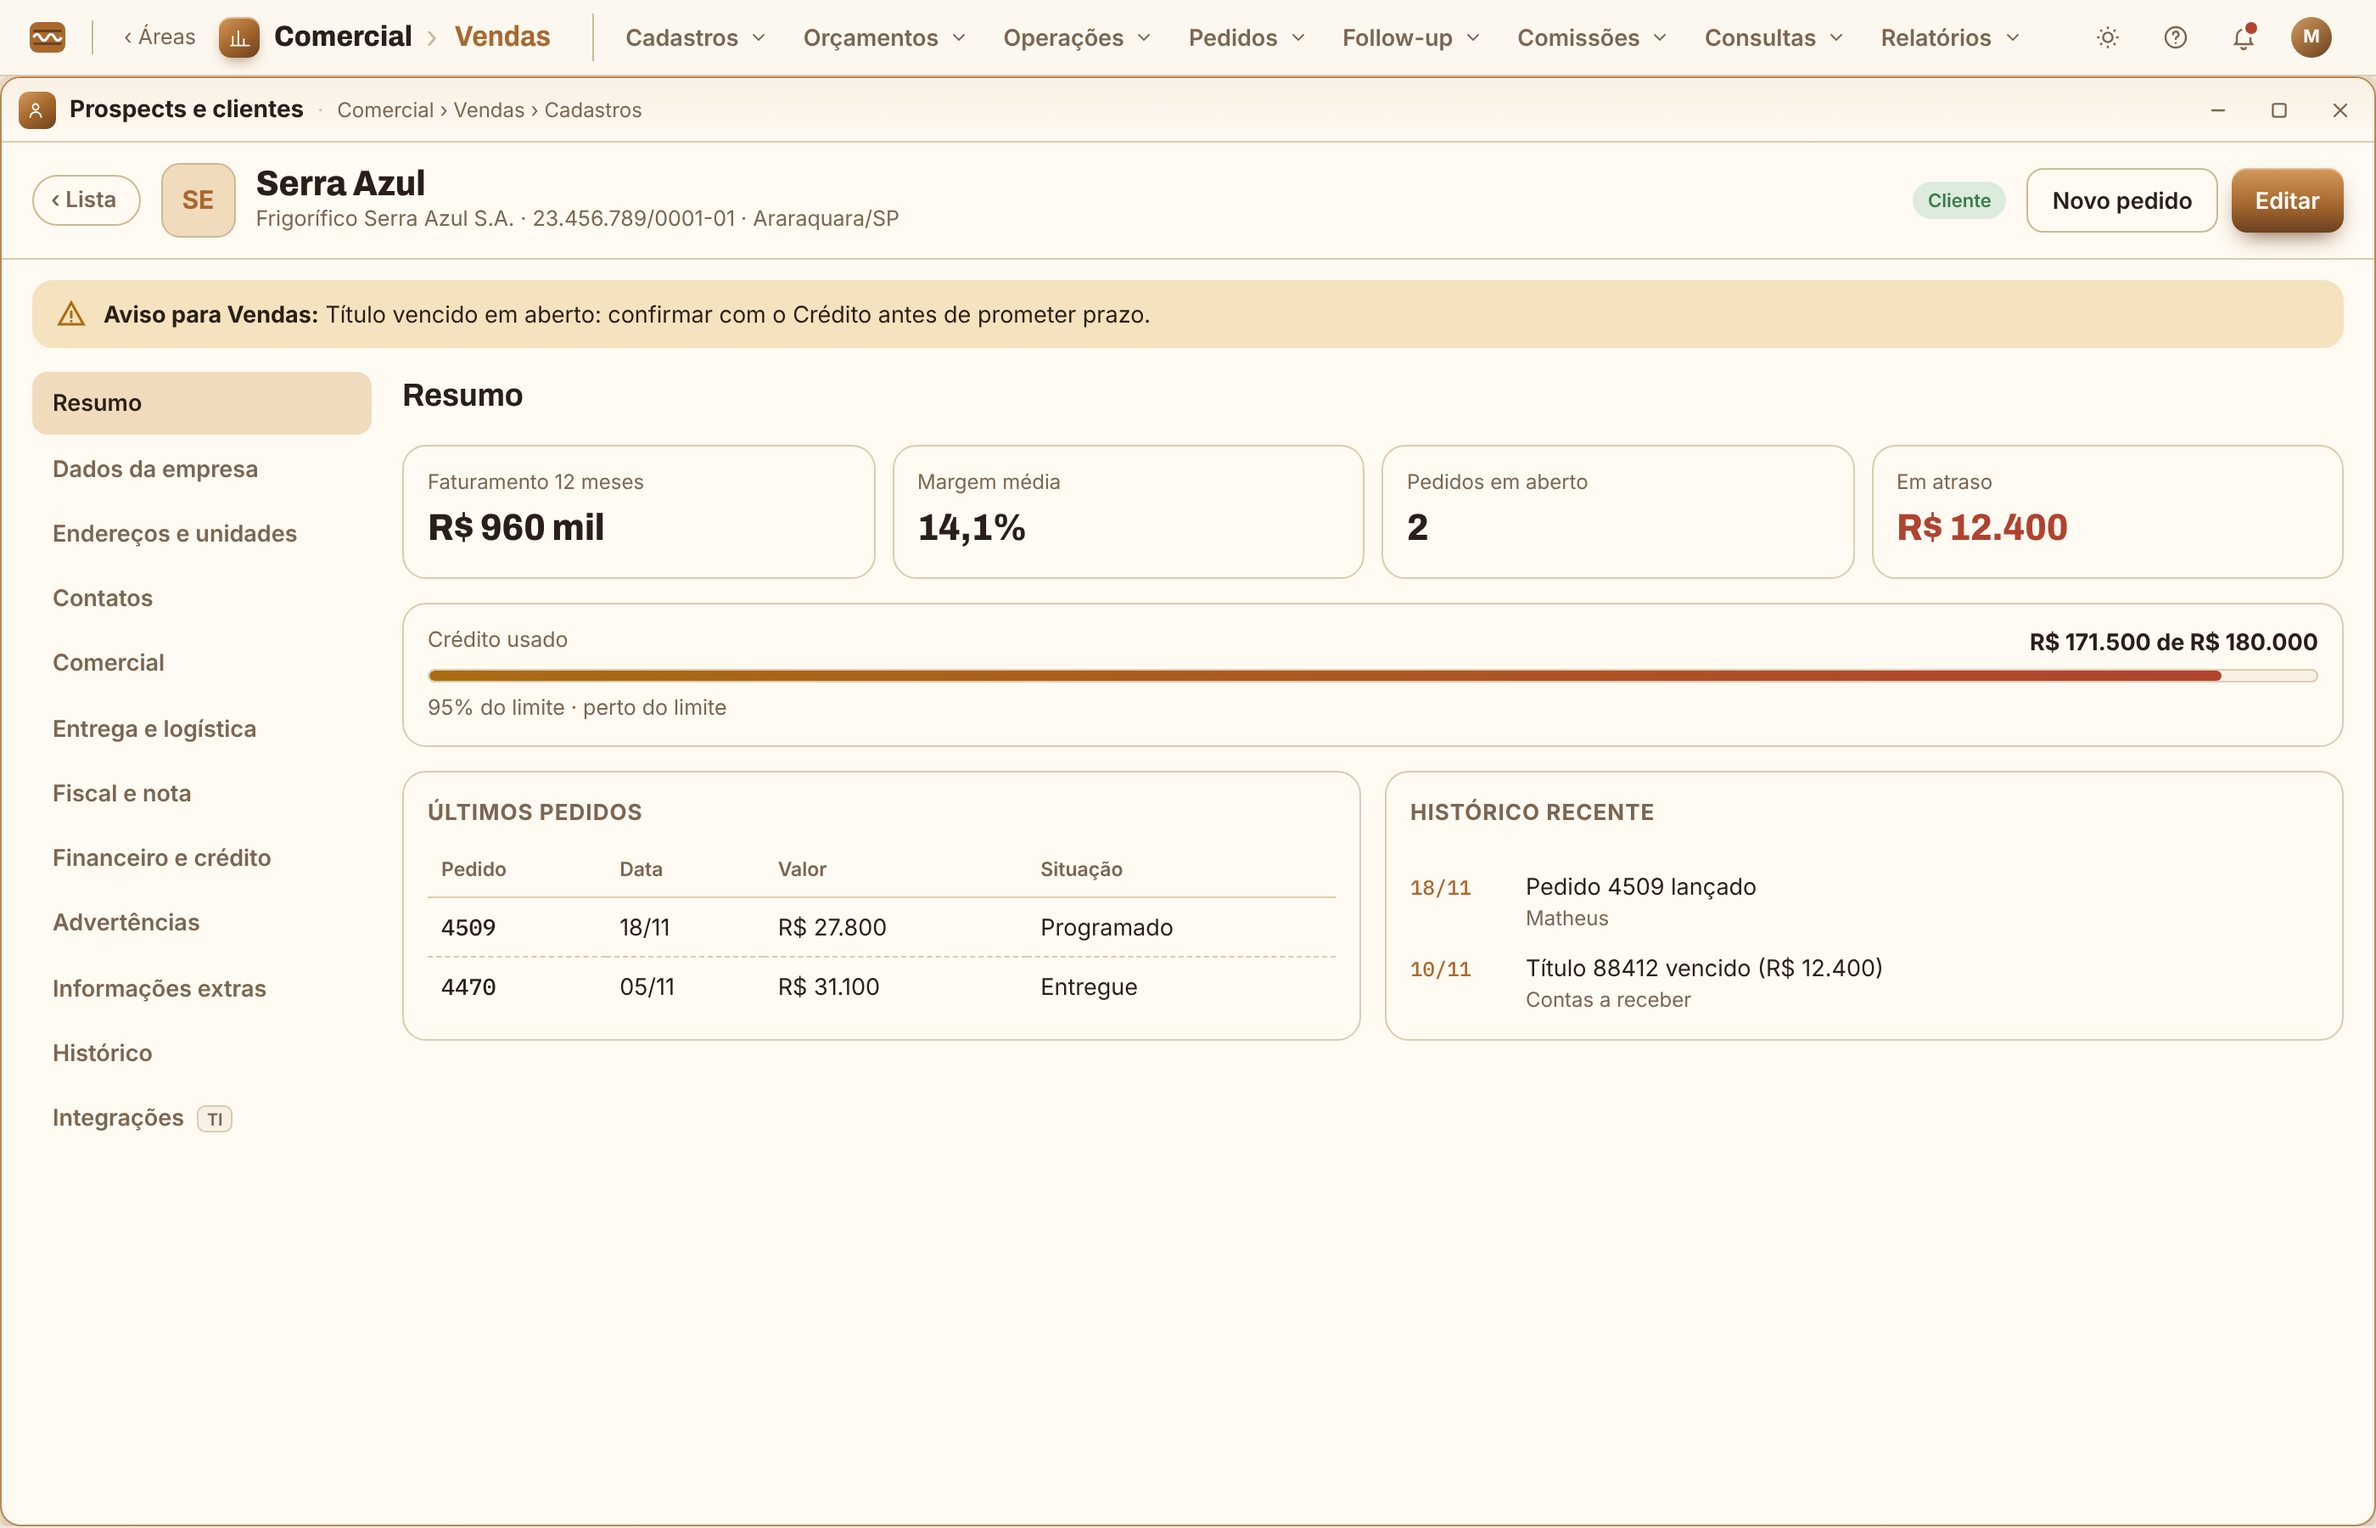
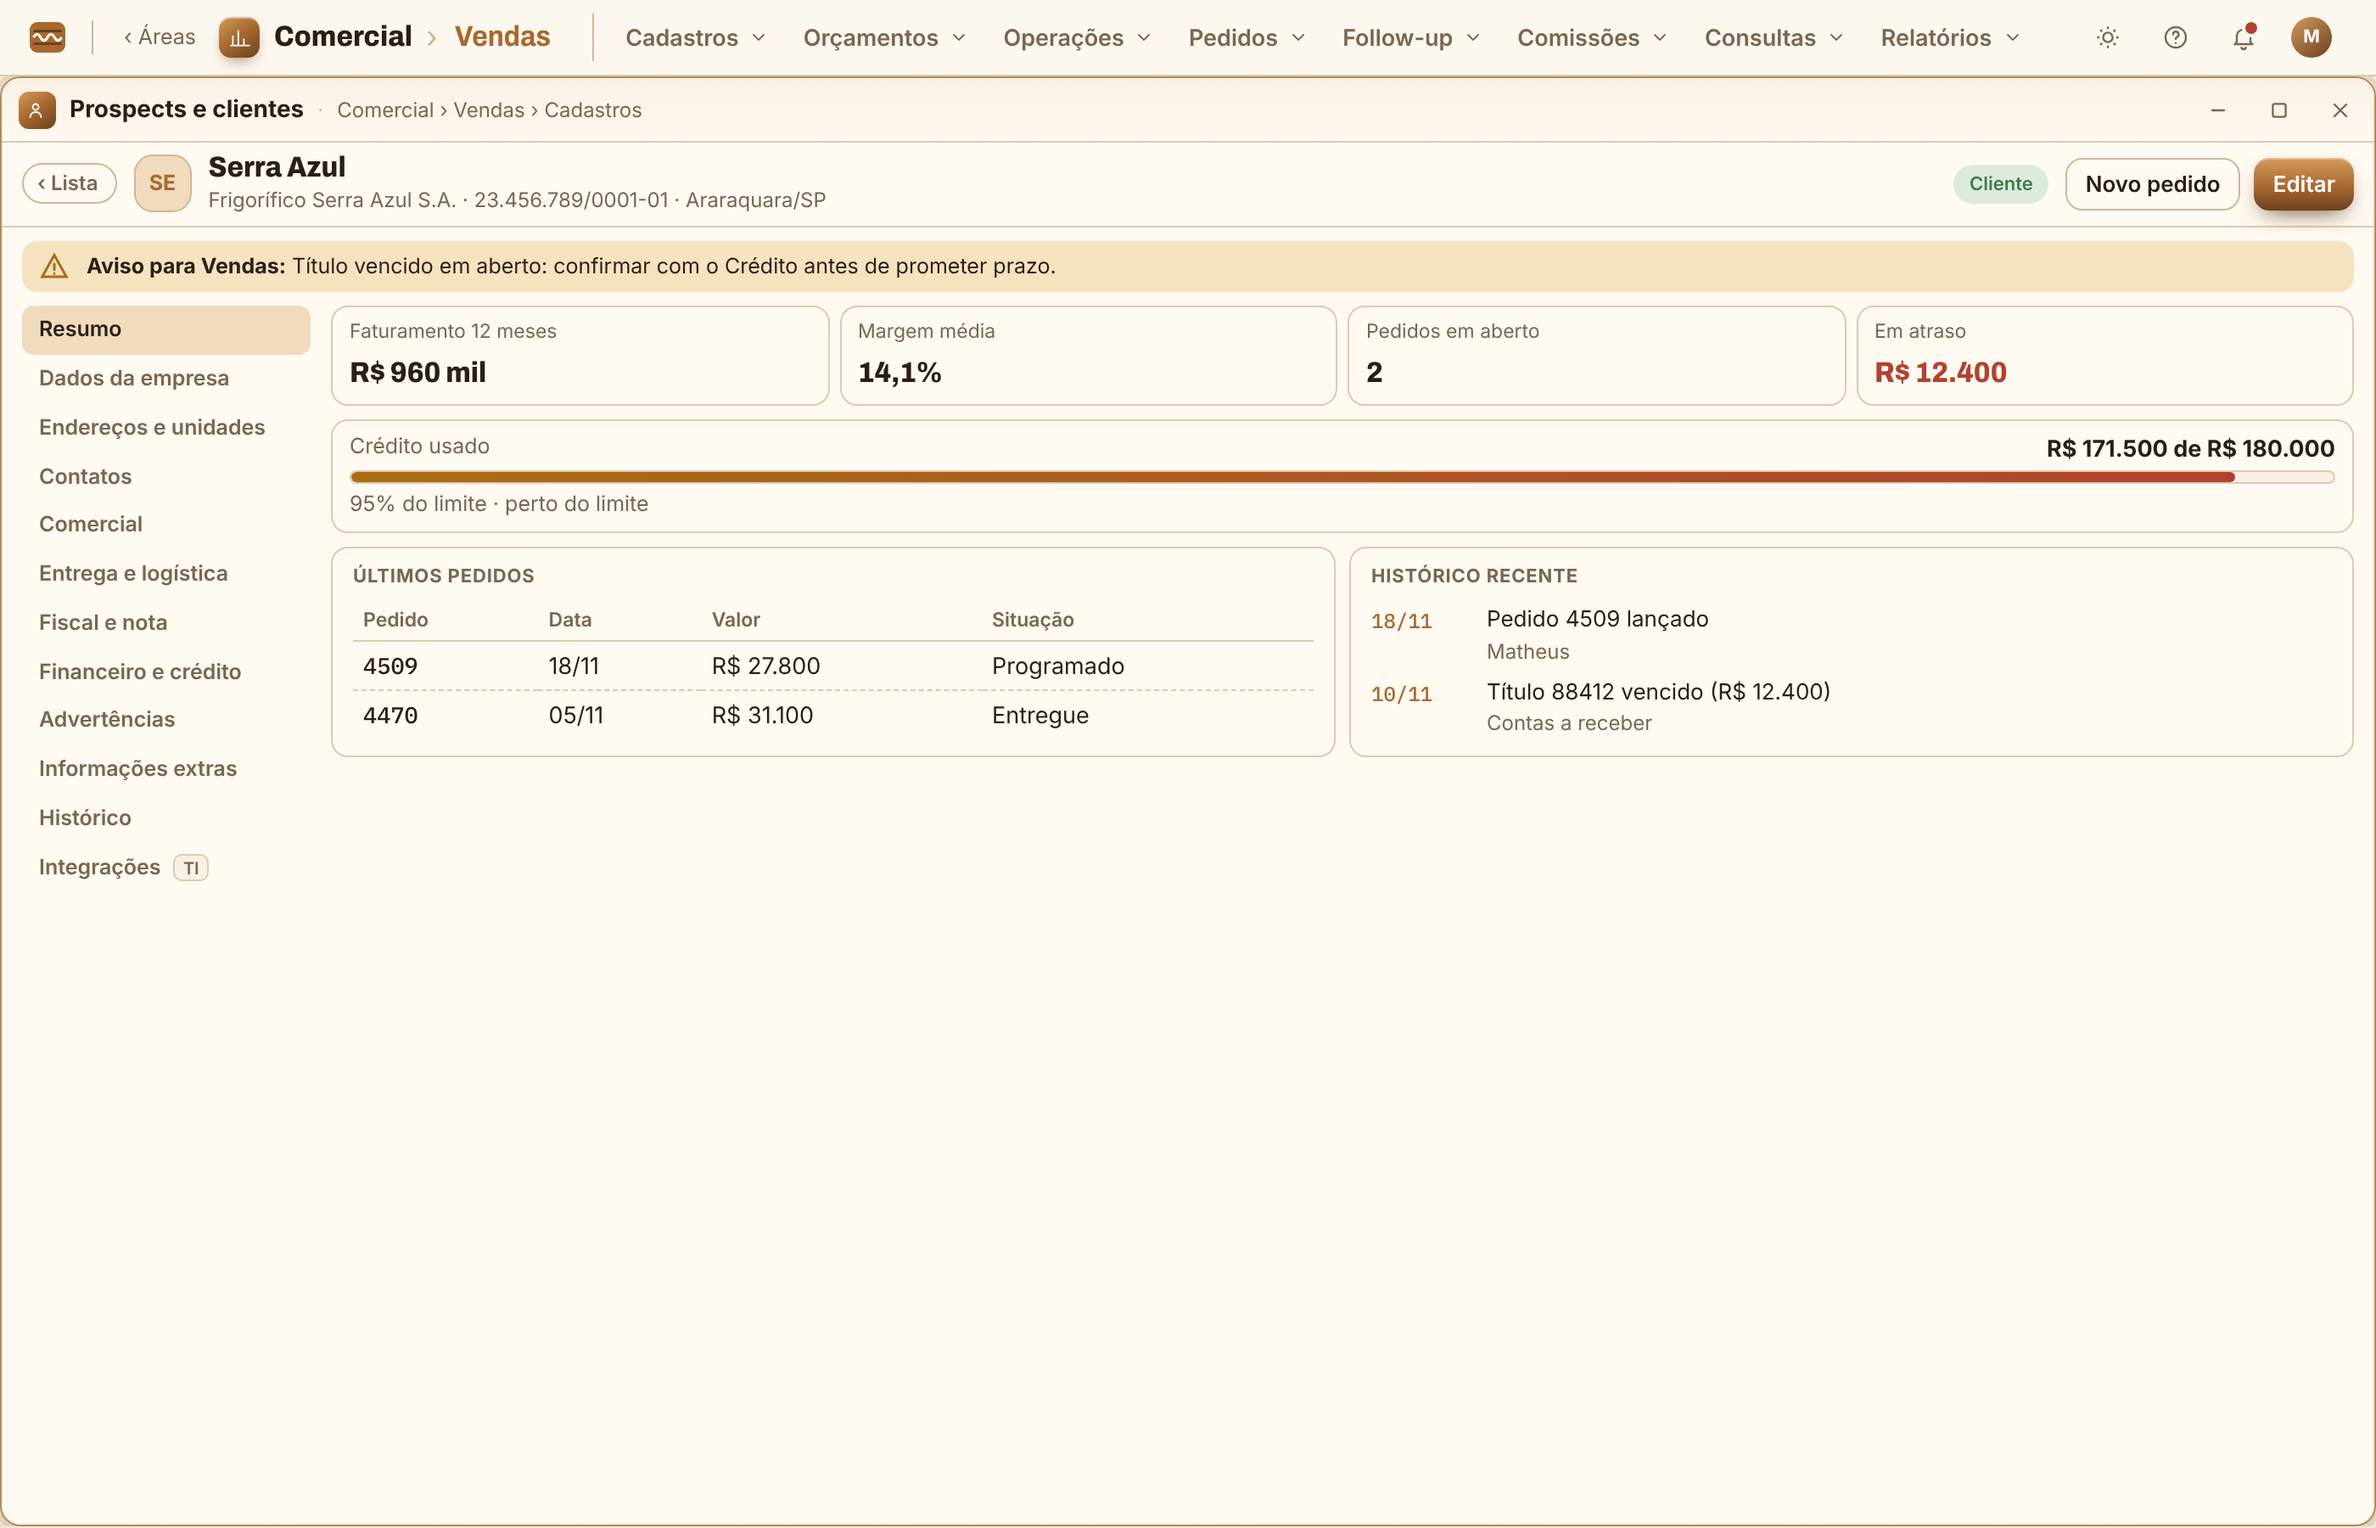
Ficha de clientes compacta; regra de telas compactas para todo o sistema
Claude-Session: https://claude.ai/code/session_015kL8p4eCaL1huCADCSMStj

diff --git a/prototipo/tela-inicial-e-comercial.html b/prototipo/tela-inicial-e-comercial.html
@@ -451,6 +451,61 @@ textarea.falta{border-color:var(--bad)!important}
   .cl-acoes{margin-left:0}
 }
 
+/* ── Regra: telas compactas (sem espaço ocioso). Vale para todas as janelas. ── */
+.cl-topo{padding:8px 12px;gap:6px}
+.cl-topo .srch input{padding:6px 0}
+.cl-topo .flt{padding:4px 10px;font-size:12.5px}
+.cl-topo .go{padding:6px 12px;font-size:13px}
+.cl-linhas{gap:4px;padding:8px 12px 12px}
+.cl-linha{padding:6px 10px;gap:10px;border-radius:9px}
+.cl-linha .av,.cl-contato .av{width:30px;height:30px;font-size:11.5px;border-radius:8px}
+.cl-linha b{font-size:13.5px}
+.cl-cab{padding:6px 12px;gap:8px 10px}
+.cl-cab .voltar{padding:2px 10px 2px 8px;font-size:12px}
+.av.grande{width:34px;height:34px;font-size:12.5px}
+.cl-nome b{font-size:17px}
+.cl-nome small{font-size:12px}
+.cl-acoes .btn2,.cl-acoes .go{padding:5px 11px;font-size:13px}
+.cl-aviso{margin:8px 12px 0;padding:6px 10px;font-size:12.5px;border-radius:9px}
+.cl-corpo{grid-template-columns:170px minmax(0,1fr);gap:12px;padding:8px 12px 14px}
+.cl-nav{top:56px;gap:0}
+.cl-nav button{padding:5px 10px;font-size:12.5px;border-radius:7px}
+.cl-sec{gap:8px}
+.cl-sec h3{display:none}
+.cl-bloco{padding:8px 12px 10px;gap:6px;border-radius:10px}
+.cl-bloco h4{font-size:11px}
+.cl-grade{grid-template-columns:repeat(auto-fill,minmax(170px,1fr));gap:4px 14px}
+.cf{gap:0;font-size:11.5px;font-weight:600}
+.cf input,.cf select,.cf textarea,.cl-tab input{font-size:13.5px;padding:4px 8px;border-radius:7px}
+.cf input:disabled,.cf select:disabled,.cf textarea:disabled,.cl-tab input:disabled{padding:2px 0}
+.cf textarea{min-height:44px}
+.cf textarea:disabled{min-height:0;height:auto}
+.cf-bt{display:none}
+.editando .cf-bt{display:inline-flex;bottom:2px;padding:2px 7px}
+.cf-sn{font-size:13px;gap:6px}
+.cl-kpis{gap:6px}
+.cl-kpi{padding:6px 10px;border-radius:10px}
+.cl-kpi span{font-size:11.5px}
+.cl-kpi b{font-size:17px}
+.cl-credito{padding:6px 10px;gap:3px;border-radius:10px}
+.cl-duas{gap:8px}
+.cl-tab th{padding:3px 6px}
+.cl-tab td{padding:4px 6px}
+.cl-tempo{gap:5px}
+.cl-tempo li{font-size:13px}
+.cl-dica{padding:6px 10px;font-size:12.5px;border-radius:9px}
+.cl-lista{gap:4px}
+.cl-item{padding:5px 10px;border-radius:8px}
+.cl-contatos{gap:6px}
+.cl-contato{padding:8px 10px;gap:8px;border-radius:10px}
+.cl-txt{font-size:13px}
+.cf.dupla{grid-column:span 2}
+@media (max-width:760px){ .cf.dupla{grid-column:1/-1} }
+.cl-item{display:flex;flex-wrap:wrap;align-items:baseline;gap:2px 10px}
+.cl-item small{margin-left:auto}
+.cl-doc{display:flex}
+.cl-doc .pill{margin-left:auto}
+
 /* retomada */
 .recent{display:grid;grid-template-columns:repeat(3,minmax(0,1fr));gap:12px}
 @media (max-width:820px){ .recent{grid-template-columns:1fr} }
@@ -2961,7 +3016,7 @@ const SECOES = [
 ];
 
 /* pedaços de formulário (ficam travados até clicar em Editar) */
-const f = (rot, val, o = {}) => `<label class="cf${o.larga ? ' larga' : ''}"><span>${rot}${o.ajuda ? ` <i title="${esc(o.ajuda)}">?</i>` : ''}</span>${
+const f = (rot, val, o = {}) => `<label class="cf${o.larga ? ' larga' : ''}${o.dupla ? ' dupla' : ''}"><span>${rot}${o.ajuda ? ` <i title="${esc(o.ajuda)}">?</i>` : ''}</span>${
   o.opcoes ? `<select disabled>${o.opcoes.map(x => `<option${x === val ? ' selected' : ''}>${esc(x)}</option>`).join('')}</select>`
   : o.texto ? `<textarea disabled>${esc(val || '')}</textarea>`
   : `<input disabled value="${esc(val || '')}"${o.ph ? ` placeholder="${esc(o.ph)}"` : ''}>`}${o.botao ? `<button class="mini cf-bt" type="button" data-acao-f="${o.botao[1]}">${o.botao[0]}</button>` : ''}</label>`;
@@ -3000,7 +3055,7 @@ function secDados(c){
   return bloco('Identificação', `
       ${f('CNPJ / CPF', c.cnpj, { botao:['Buscar na Receita','receita'], ajuda:'Preenche razão social, endereço e situação automaticamente' })}
       ${f('Natureza jurídica', c.nat, { opcoes:['Sociedade limitada','Sociedade anônima','Empresário individual','Pessoa física'] })}
-      ${f('Razão social', c.razao, { larga:true })}
+      ${f('Razão social', c.razao, { dupla:true })}
       ${f('Nome fantasia', c.fantasia, { ajuda:'Toda troca de nome fantasia fica registrada no histórico' })}
       ${f('Situação', c.status, { opcoes:['Ativo','Inativo','Bloqueado'] })}
       ${f('Indicador de I.E.', c.ieInd, { opcoes:['Contribuinte','Isento','Não contribuinte'] })}
@@ -3017,7 +3072,7 @@ function secEnderecos(c){
   const e = c.end;
   return bloco('Endereço principal', `
       ${f('CEP', e.cep, { botao:['Buscar','cep'], ajuda:'Preenche rua, bairro, cidade e estado' })}
-      ${f('Logradouro', e.log, { larga:true })}
+      ${f('Logradouro', e.log, { dupla:true })}
       ${f('Número', e.num)}${f('Complemento', e.comp)}
       ${f('Bairro', e.bairro)}${f('Cidade', e.cidade)}${f('Estado', e.uf)}`)
   + (ehCli(c) ? bloco('Locais de entrega', listaEnd(c.entregas, 'entrega') + sn('Exigir o local de entrega no pedido', true), 'o cliente pode ter vários')
@@ -3047,14 +3102,14 @@ function secComercial(c){
 }
 function secEntrega(c){
   return bloco('Prazos e tolerâncias', `
-      ${f('Tolerância de quantidade para menos (%)', '10')}${f('Tolerância de quantidade para mais (%)', '10')}
-      ${ehCli(c) ? f('Tolerância de data: dias antes', '2') + f('Tolerância de data: dias depois', '0') + f('Regra para data de embarque', 'Data de entrega − dias de transporte') + f('Dias de transporte', '1') : ''}`)
+      ${f('Tolerância qtde − (%)', '10')}${f('Tolerância qtde + (%)', '10')}
+      ${ehCli(c) ? f('Tolerância data − (dias)', '2') + f('Tolerância data + (dias)', '0') + f('Regra da data de embarque', 'Entrega − dias de transporte', { dupla:true }) + f('Dias de transporte', '1') : ''}`)
   + bloco('FSC', `${f('Exige selo FSC', 'Não', { opcoes:SIMNAO })}${f('Aceita impressão do selo FSC', 'Sim', { opcoes:SIMNAO })}`)
   + (ehCli(c) ? bloco('Transporte', `
       ${f('Transportador', 'Transportes Rápido Sul')}${f('Redespacho', '')}${f('Frete', 'CIF', { opcoes:['CIF','FOB'] })}
       ${f('Avisar embarque', 'Por e-mail', { opcoes:['Por e-mail','Não avisar'] })}`)
   + bloco('Regras de entrega', `
-      ${f('Controle de embalagens retornáveis', 'Paletes PBR')}
+      ${f('Embalagens retornáveis', 'Paletes PBR')}
       ${f('Quantos produtos por nota', '')}${f('Quantos pedidos por nota', '')}
       ${sn('Aceita entrega com data anterior à de hoje', false)}
       ${sn('Mesmo volume para vários itens do romaneio', false)}
@@ -3062,7 +3117,7 @@ function secEntrega(c){
   + bloco('Bloqueios e prazos combinados', `
       ${f('Tipos de bloqueio na entrega', 'Nenhum')}
       ${f('Nosso prazo × prazo do cliente', '15 dias × 20 dias')}
-      ${f('Motivos de alteração de data/quantidade', 'Usar a lista padrão')}`) : '');
+      ${f('Motivos de alteração', 'Lista padrão')}`) : '');
 }
 function secFiscal(){
   return bloco('Impostos', `

diff --git a/CLAUDE.md b/CLAUDE.md
@@ -35,6 +35,8 @@ esta seção para a conversa seguinte saber de onde continuar.
   em `docs/mapa-de-funcionalidades.md` (gerado a partir dos dados do protótipo).
 - O usuário autorizou mover funcionalidades para o setor mais apropriado e avisar quando
   algo parecer fora do lugar.
+- **Regra de desenho: telas compactas, sem espaço ocioso** (quadros e campos juntos, rótulos
+  curtos, vários campos por linha). Vale para tudo.
 - Todas as decisões de tela já aprovadas estão no `README.md`. Siga-as em telas novas
   (cores de papelão, módulos que abrem vazios, itens abrindo em janelas móveis etc.).
 

diff --git a/README.md b/README.md
@@ -30,6 +30,9 @@ do sistema (com IA) respeitando o que cada usuário pode acessar.
 ## Decisões aprovadas
 
 ### Visual
+- **Regra para todas as telas: compacto, sem espaço ocioso** (pedido do usuário). Quadros,
+  campos e listas bem juntos, rótulos curtos, vários campos por linha, listas em uma linha por
+  item. Espaço sobrando gera confusão visual.
 - Cores puxadas para o papelão (kraft), com tema claro e escuro.
 - Textura leve de papel no fundo e a **onda do papelão** (flute) como detalhe da marca.
 - Na barra de cima aparece só o **logo**, sem o nome do sistema.
